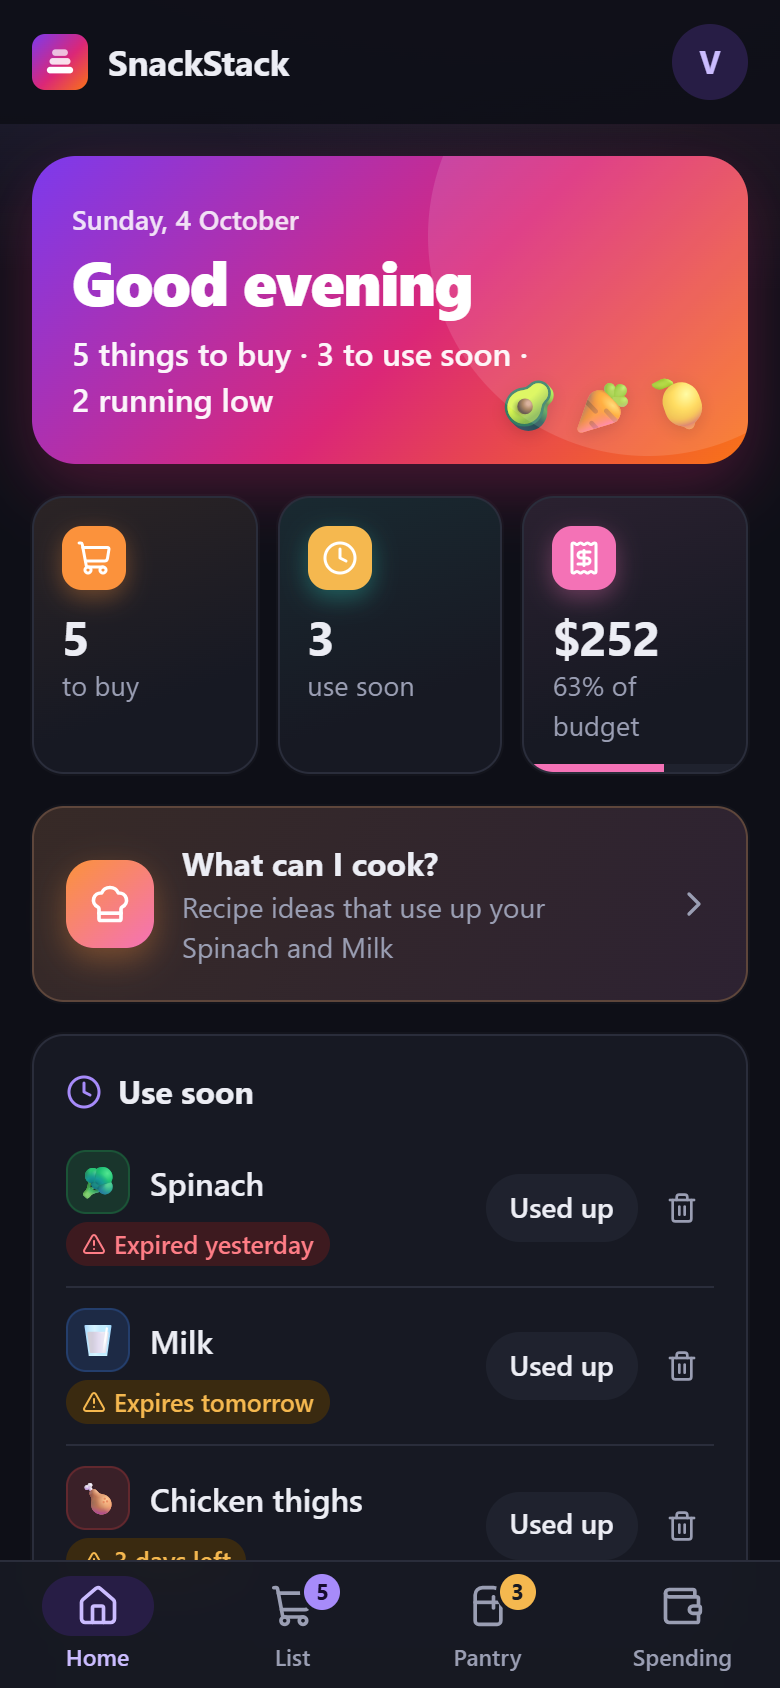
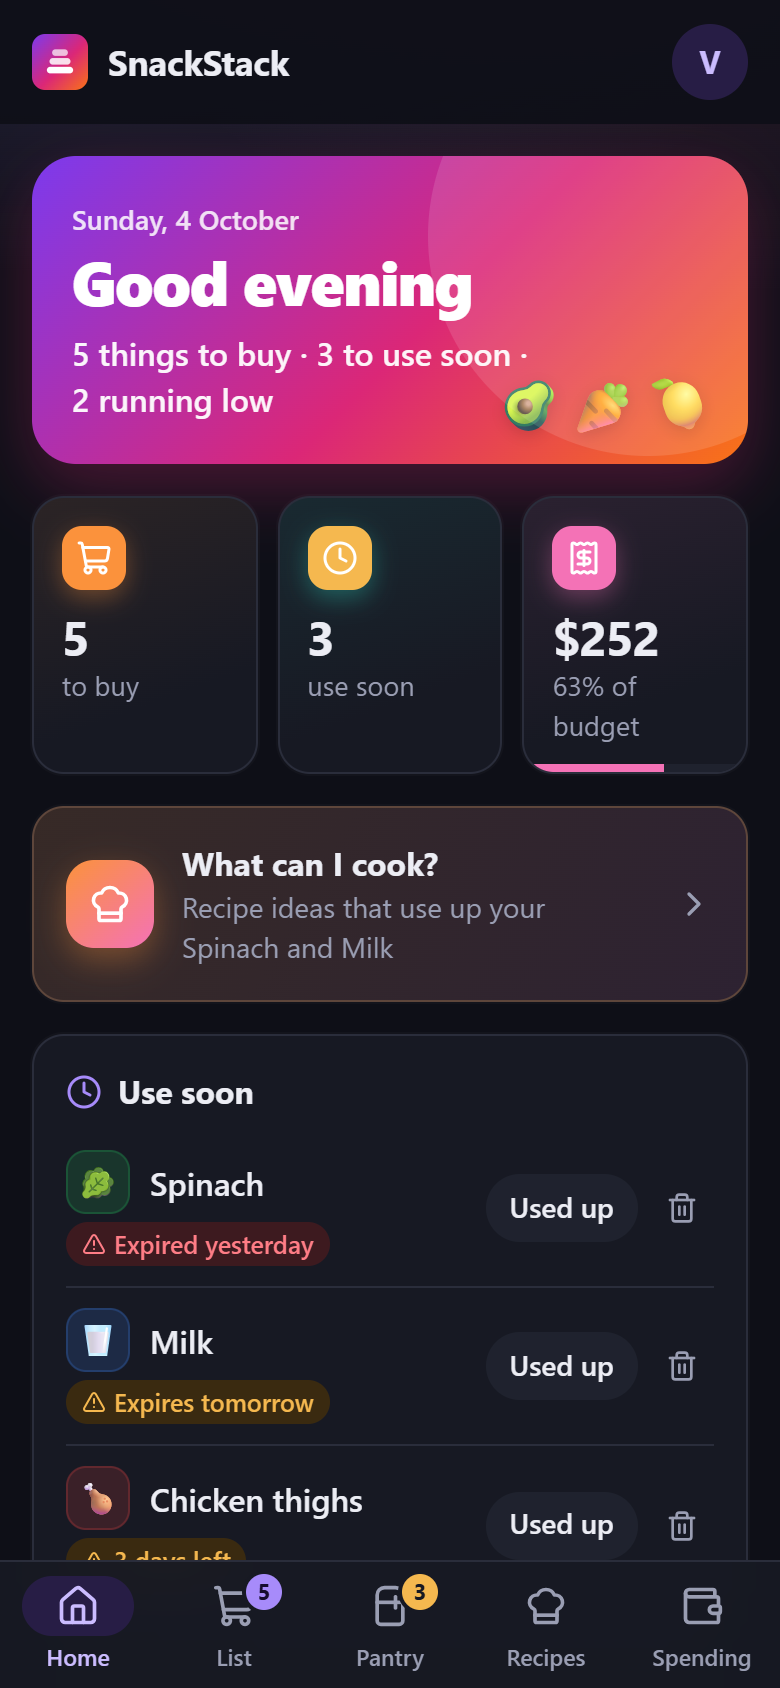
Update README and screenshots for recent features

diff --git a/README.md b/README.md
@@ -43,12 +43,14 @@ Screenshots use sample data. Recipe photos are from [TheMealDB](https://www.them
 - Suggestions for what's running low and what you buy often
 - Items sorted into aisles automatically, with an optional group-by-aisle view
 - Notes on items, and sharing the list as text
+- Swipe an item left to remove it
 - A cart for the store trip, then **one checkout** that logs prices, sets expiry dates and moves everything into the pantry, merging with what's already there
 
 **Pantry**
 - Expiry tracking with "use soon" warnings, and quick presets (3 days, 1 week, 1 month)
 - Low-stock levels ("keep at least 2") that prompt you to restock
 - Fridge, freezer and cupboard locations; search; filters for use soon and running low
+- Swipe left to delete, or tap the delete button that replaces **−** once an item reaches 0
 - "Tossed it" logs food waste with its estimated cost
 - Price history for every item: last, average and lowest price, and the cheapest store
 
@@ -59,7 +61,7 @@ Screenshots use sample data. Recipe photos are from [TheMealDB](https://www.them
 - Breakdown by store or by aisle, top items, and a food waste summary
 
 **Cooking**
-- **What can I cook?**: recipes ranked by how much of each you already have, with expiring food first
+- **What can I cook?**, in its own Recipes tab: recipes ranked by how much of each you already have, with expiring food first, then what you added most recently
 - A built-in collection of 45 everyday Indian recipes (dals, sabzis, curries, rice dishes, breakfasts, sweets), plus All, Indian and Vegetarian filters
 - Hindi ingredient names understood: aloo, gobi, palak, matar, dahi, besan, atta, rajma, chana and more
 - A full recipe view with an ingredient checklist and **add the missing ones to my list**
@@ -67,6 +69,7 @@ Screenshots use sample data. Recipe photos are from [TheMealDB](https://www.them
 
 **Everywhere**
 - Changes appear instantly, with undo on deletes and checkouts
+- Every item gets its own emoji (🥚 eggs, 🧀 paneer, 🍞 bread) on a tile tinted by its aisle
 - Email and password or Google sign-in, with password reset
 - Your currency of choice (USD by default), CSV export, keyboard shortcuts, light, dark and auto themes
 - Installable to your home screen, with a phone-first layout and a desktop layout
@@ -152,7 +155,7 @@ Recipes come from two sources, ranked together:
 
 TheMealDB's free API can search only one ingredient at a time, so its suggestions are built in two steps:
 
-1. **Search.** Up to 6 pantry items, expiring first, are mapped to the database's ingredient names (for example "GV Milk 2%" becomes Milk) and searched.
+1. **Search.** Up to 6 pantry items, expiring first and then the most recently added, are mapped to the database's ingredient names (for example "GV Milk 2%" becomes Milk) and searched. Every recipe, from either source, is then matched against your whole pantry.
 2. **Rank.** Recipes that come up for several of your ingredients, or for expiring ones, become candidates. A per-day shuffle breaks ties, so results vary instead of sorting alphabetically. The top 30 are scored on the share of ingredients you have, a bonus for using up expiring food, and a small penalty for each missing item.
 
 Matching an ingredient is directional ([src/lib/recipes.ts](src/lib/recipes.ts)):
@@ -177,6 +180,8 @@ Spices and basics (salt, oil, ghee, haldi, jeera, garam masala, whole spices and
 | Voice input | Handled by the browser's speech service (in Chrome, Google's servers) |
 | Cart contents, theme | Stored on the device only |
 
+The full policy is at [/privacy.html](public/privacy.html) and is linked from the sign-in page. It's also what Google sign-in's consent screen points to.
+
 ## Design notes
 
 Problems found while building and testing, and how they're handled:
@@ -195,6 +200,11 @@ Problems found while building and testing, and how they're handled:
 | A blurred, translucent header made the fixed bottom tab bar position itself inside the header on phones | No `backdrop-filter` on the header at phone widths |
 | Browsers kept serving an old `index.html` after a deploy | [public/_headers](public/_headers) sets `no-cache` on the page, and caches hashed assets forever |
 | The OCR engine is large and most visits never scan | It's loaded with a dynamic `import()` only when you scan, in its own chunk |
+| On iPhone, the keyboard covered the add-item form, because Safari doesn't shrink the page for the keyboard | Panels size themselves to the `visualViewport` (the area above the keyboard) and scroll the focused field into view. Fields are at least 16px, so Safari doesn't zoom in |
+| Swipe to delete had to coexist with scrolling and with taps on the same row | `touch-action: pan-y` leaves vertical scrolling to the browser; a drag only counts as a swipe once it's clearly sideways, and the click that ends a swipe is swallowed so it doesn't also tick or open the item |
+| A pantry item at 0 had no obvious way to be removed, but deleting it automatically would lose the "ran out" signal | At 0, the **−** button becomes a delete button. Items stay at 0 (and feed the restock suggestions) until you choose to remove them |
+| A newly added pantry item didn't show up in recipe suggestions | Suggestions use the whole pantry, ordered expiring first and then newest first, so the latest additions are always searched |
+| Eggs showed a 🥛, because icons came from the aisle ("Dairy & eggs") | About 150 items have their own emoji, matched as whole words with the longest match first, so "peanut butter" is 🥜, not 🧈 |
 
 ## Tech stack
 
@@ -228,14 +238,14 @@ snackstack/
 │   │   ├── format.ts             # local dates, money, months
 │   │   ├── device.ts             # voice, sharing, CSV export, online status
 │   │   └── cart.ts, route.ts, theme.ts
-│   ├── ui/                       # Sheet, Toast, Stepper, PriceHistory, shared bits
+│   ├── ui/                       # Sheet, SwipeRow, Toast, Stepper, PriceHistory, shared bits
 │   ├── store.tsx                 # all data, optimistic updates, undo
 │   ├── index.css                 # design tokens, per-tab colors, light and dark themes
 │   └── App.tsx                   # auth gate, shell, navigation, settings
 ├── supabase/
 │   ├── schema.sql                # tables, indexes, RLS policies
 │   └── migrations/               # schema changes, run in order
-├── public/                       # icon, web app manifest, Cloudflare cache headers
+├── public/                       # icon, web app manifest, privacy policy, Cloudflare cache headers
 ├── docs/screenshots/
 ├── wrangler.jsonc                # Cloudflare Workers config
 └── vite.config.ts
